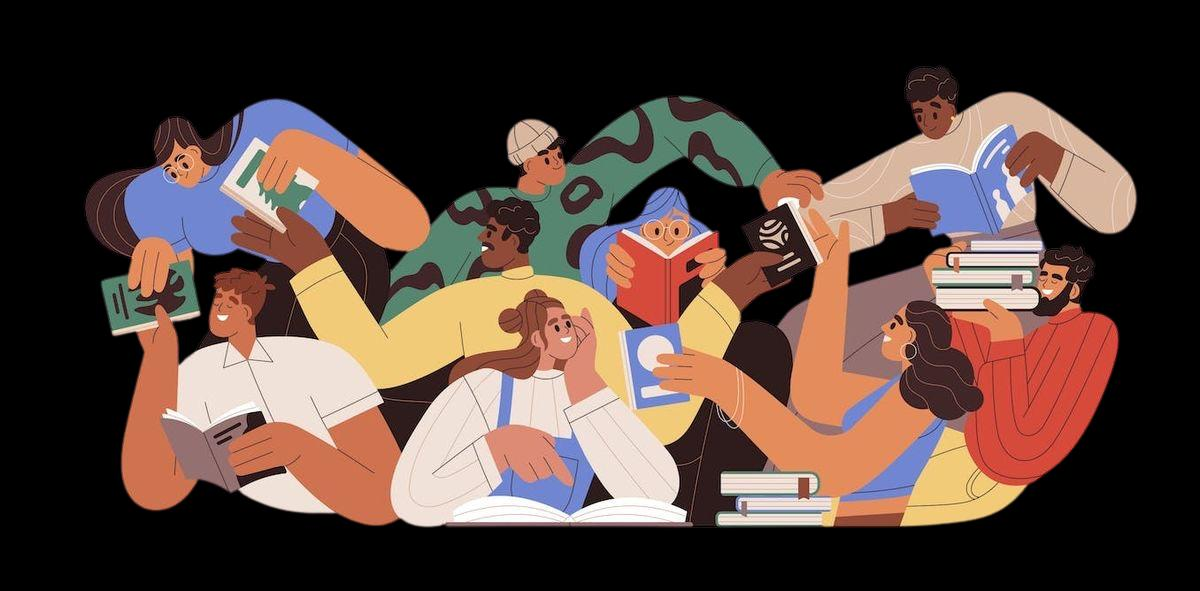
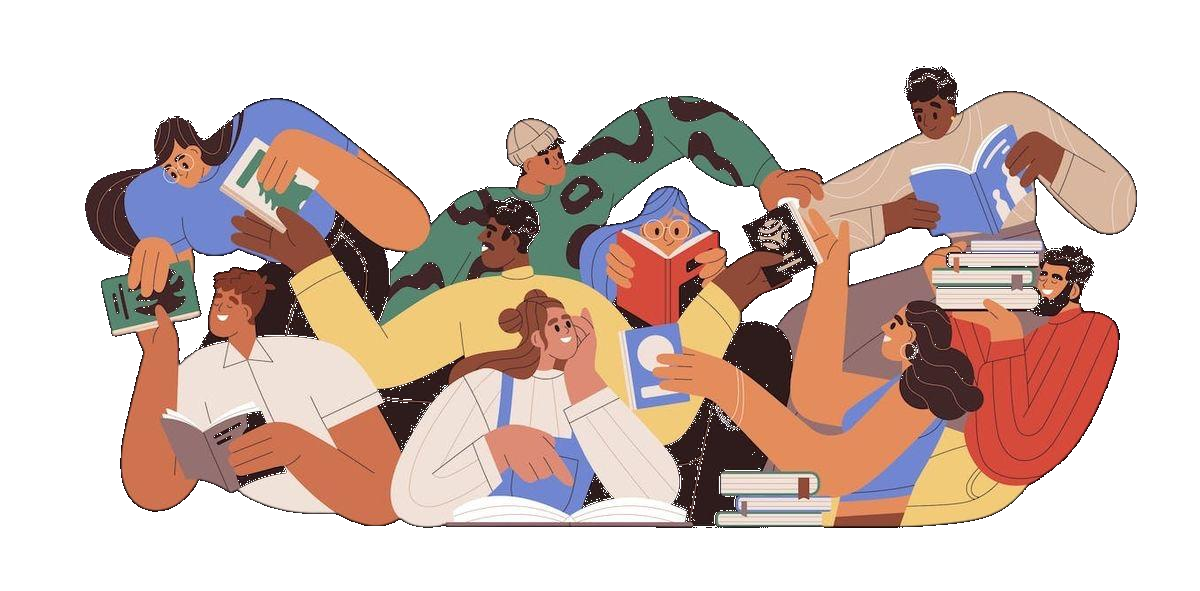
Login: readers illustration — remove black bg, make fully visible

diff --git a/ifyscs/app/templates/auth/login.html b/ifyscs/app/templates/auth/login.html
@@ -179,15 +179,12 @@
   position: absolute;
   bottom: 0;
   left: 0;
-  width: 220px;
-  opacity: 0.18;
+  width: 260px;
+  opacity: 0.92;
   pointer-events: none;
-  z-index: 0;
+  z-index: 1;
   user-select: none;
-  image-rendering: -webkit-optimize-contrast;
-  image-rendering: crisp-edges;
 }
-[data-theme="light"] .asl-readers-img { opacity: 0.28; }
 
 /* ─── Left panel ─── */
 .asl-left {
